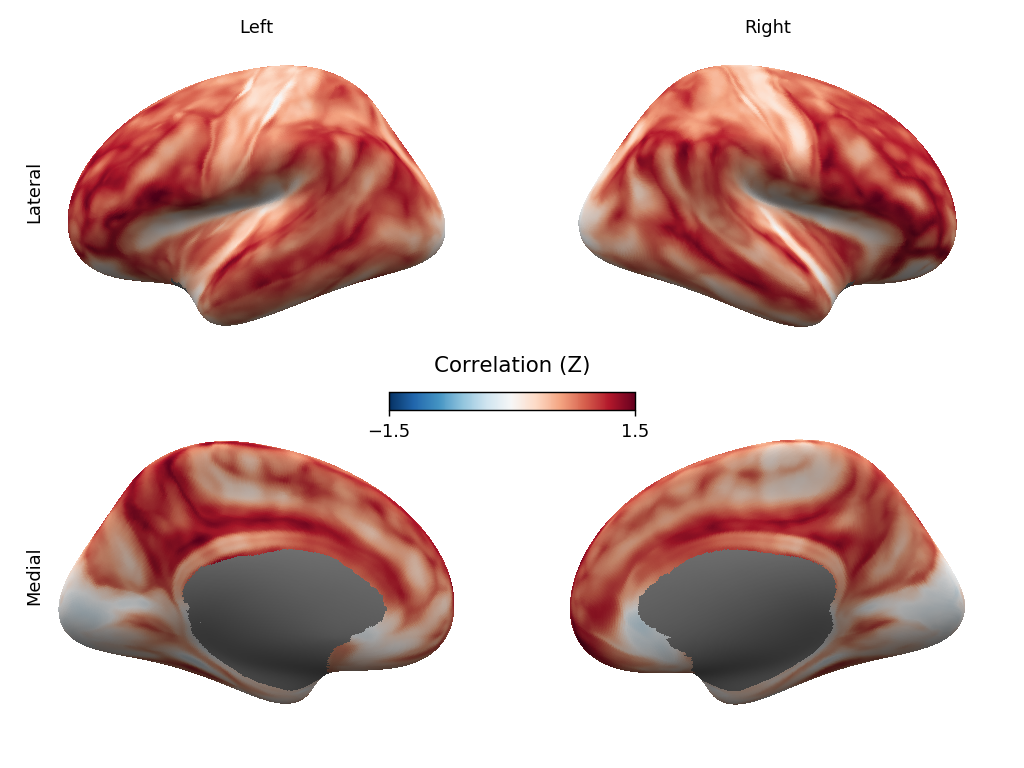
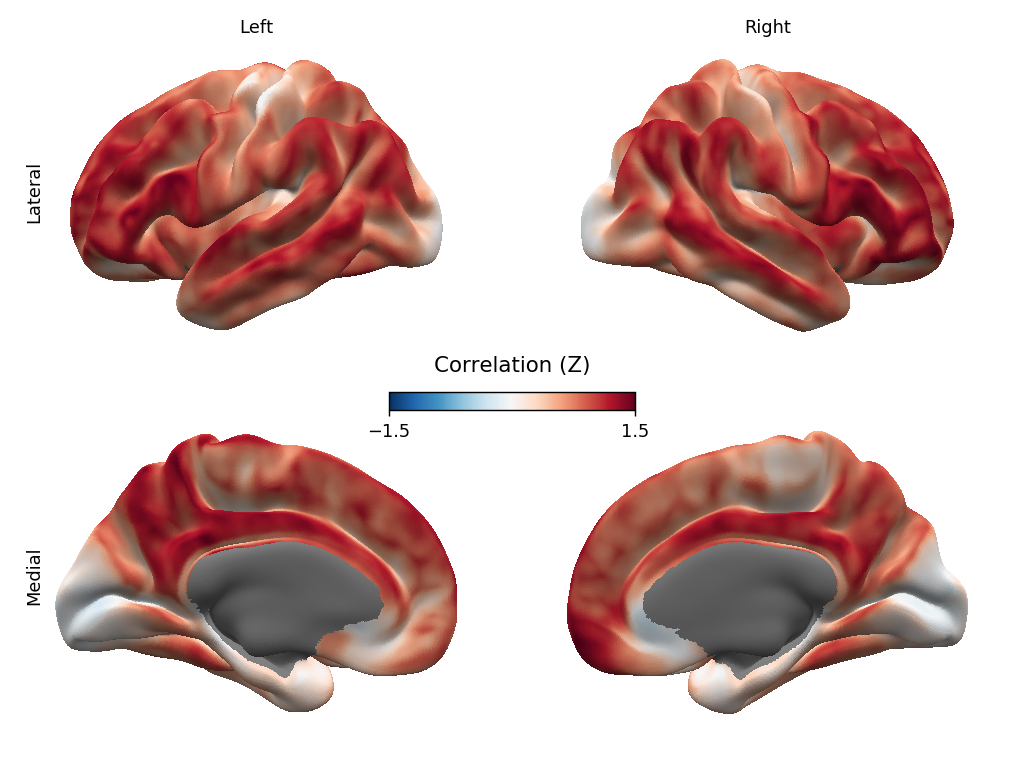
parcellation functionality incorporated into the main plot_surf4 function

diff --git a/brain4views.py b/brain4views.py
@@ -65,8 +65,8 @@ def yrotate(theta):
 def plot_surf4(meshes, overlays=None,
                sulc_maps=None, ctx_masks=None,
                labels=None, label_colors=None,
-               cmap=None, threshold=None,
-               vmin=None, vmax=None,
+               cmap=None, shuffle_cmap=False,
+               threshold=None, vmin=None, vmax=None,
                avg_method='mean', colorbar=False,
                output_file='plot.png', title=''):
     """Plottig of surface mesh with optional overlay data
@@ -102,6 +102,8 @@ def plot_surf4(meshes, overlays=None,
         To use for plotting of the overlay. Either a string
         which is a name of a matplotlib colormap, or a matplotlib
         colormap object. If None, matplotlib default will be chosen.
+    shuffle_cmap: boolean
+        If True, randomly shuffle the cmap (useful for parcellations)
     avg_method: {'mean', 'median'}, default is 'mean'
         How to average vertex values to derive the face value, mean results
         in smooth, median in sharp boundaries (e.g. for parcellations).
@@ -130,6 +132,12 @@ def plot_surf4(meshes, overlays=None,
         # if cmap is given as string, translate to matplotlib cmap
         if isinstance(cmap, str):
             cmap = plt.cm.get_cmap(cmap)
+
+    # randomly shuffle colormap if prompted
+    if shuffle_cmap:
+        vals = np.linspace(0, 1, 256)
+        np.random.shuffle(vals)
+        cmap = ListedColormap(plt.cm.get_cmap(cmap)(vals))
 
     # initiate figure
     fig = plt.figure(figsize=(8, 6))
@@ -340,60 +348,3 @@ def plot_surf4(meshes, overlays=None,
 
     # save file
     fig.savefig(output_file, dpi=128)
-
-
-def plot_surf4_parcellation(
-              meshes, parcellations,
-              sulc_maps=None, ctx_masks=None,
-              cmap=None, shuffle_cmap=True,
-              output_file='plot.png', title=''):
-    """Plottig of surface mesh with parcellation overlaid
-
-    Parameters
-    ----------
-    meshes: list of two files [left hemi (lh), right hemi (rh)]
-        Surface mesh geometry, Valid file formats are
-        .gii or Freesurfer specific files such as .orig, .pial,
-        .sphere, .white, .inflated
-    parcellation: optional, list of two files [lh, rh]
-        Data to be displayed on the surface mesh. Valid formats
-        Freesurfer specific files (.annot) or equivalent files
-        in .gii format
-    sulc_maps: optional, list of two files [lh, rh]
-        Sulcal depth map to be plotted on the mesh in greyscale,
-        underneath the overlay.  Valid formats
-        are .gii, or Freesurfer specific file .sulc
-    ctx_masks: optional, list of two files [lh, rh]
-        Cortical labels (masks) to restrict overlay data.
-        Valid formats are Freesurfer specific file .label,
-        or .gii
-    cmap: matplotlib colormap, str or colormap object, default is None
-        To use for plotting of the overlay. Either a string
-        which is a name of a matplotlib colormap, or a matplotlib
-        colormap object. If None, matplotlib default will be chosen.
-    shuffle_cmap: boolean
-        If True, randomly shuffle the cmap
-    title : str, optional
-        Figure title.
-    output_file: str, or None, optional
-        The name of an image file to export plot to. Valid extensions
-        are .png, .pdf, .svg. If output_file is not None, the plot
-        is saved to a file, and the display is closed.
-    """
-
-    # randomly shuffle colormap if prompted
-    if shuffle_cmap:
-        vals = np.linspace(0, 1, 256)
-        np.random.shuffle(vals)
-        new_cmap = ListedColormap(plt.cm.get_cmap(cmap)(vals))
-    else:
-        new_cmap = cmap
-
-    plot_surf4(meshes,
-               overlays=parcellations,
-               sulc_maps=sulc_maps,
-               ctx_masks=ctx_masks,
-               vmin=None, threshold=None, vmax=None,
-               cmap=new_cmap, avg_method='median',
-               title=title, colorbar=False,
-               output_file=output_file)

diff --git a/example_plots.py b/example_plots.py
@@ -1,7 +1,7 @@
 import time
 import numpy as np
 from matplotlib import pyplot as plt
-from brain4views import plot_surf4, plot_surf4_parcellation
+from brain4views import plot_surf4
 
 start = time.time()
 
@@ -15,8 +15,8 @@ surf_dir = '{0}/{1}/surf/'.format(SUBJECTS_DIR, SUBJ)
 label_dir = '{0}/{1}/label/'.format(SUBJECTS_DIR, SUBJ)
 
 # surface meshes (.inflated, .pial, .white etc.)
-lh_surf = surf_dir + 'lh.inflated'
-rh_surf = surf_dir + 'rh.inflated'
+lh_surf = surf_dir + 'lh.pial_semi_inflated'
+rh_surf = surf_dir + 'rh.pial_semi_inflated'
 # sulcal depth maps (.sulc)
 lh_sulc = surf_dir + 'lh.sulc'
 rh_sulc = surf_dir + 'rh.sulc'
@@ -90,14 +90,14 @@ plot_surf4([lh_surf, rh_surf],
 lh_parc = label_dir + 'lh.aparc.a2009s.annot'
 rh_parc = label_dir + 'rh.aparc.a2009s.annot'
 
-plot_surf4_parcellation(
-          [lh_surf, rh_surf],
-          [lh_parc, rh_parc],
-          sulc_maps=None,
-          ctx_masks=[lh_mask, rh_mask],
-          cmap='gist_rainbow', shuffle_cmap=True,
-          title='Destrieux Atlas',
-          output_file='human_destrieux_atlas.png')
+plot_surf4([lh_surf, rh_surf],
+           overlays=[lh_parc, rh_parc],
+           sulc_maps=None,
+           ctx_masks=[lh_mask, rh_mask],
+           cmap='gist_rainbow', shuffle_cmap=True,
+           title='Destrieux Atlas',
+           avg_method='median',
+           output_file='human_destrieux_atlas.png')
 
 elapsed = time.time() - start
 print('surfaces rendered in {0:.2f} s'.format(elapsed))
